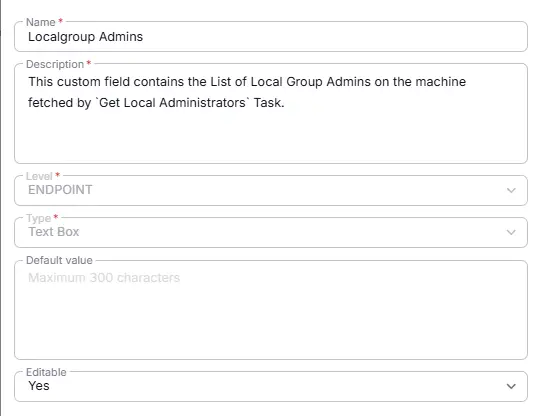
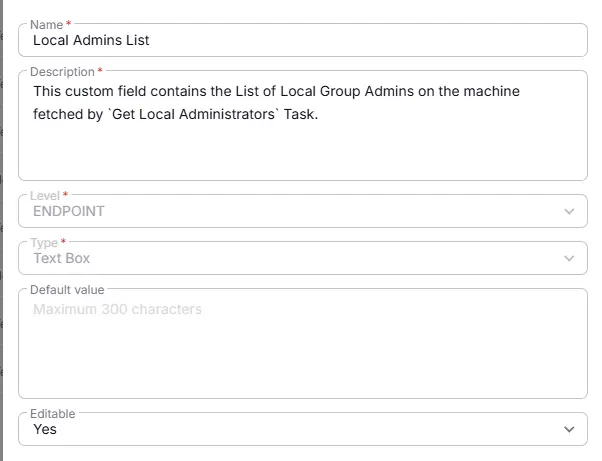
QA Ammendments
- changed solution Name to  `Local Administrator Detection` and updated all the documents referring the solution document
- Renamed  the CF `Localgroup Admins` to `Local Admins List` and updated the associated documents

diff --git a/docs/solutions/local-administrator-detection.md b/docs/solutions/local-administrator-detection.md
@@ -1,8 +1,8 @@
 ---
 id: '7e3f8472-2908-4491-b495-b87bd7ad0fe6'
 slug: /7e3f8472-2908-4491-b495-b87bd7ad0fe6
-title: 'Get Local Administrators'
-title_meta: 'Get Local Administrators'
+title: 'Local Administrator Detection'
+title_meta: 'Local Administrator Detection'
 keywords: ['local','administators','localgroup','admins','windows']
 description: 'The purpose of this solution is to list all the local administrators on windows machines on CW RMM platform.'
 tags: ['security', 'setup', 'windows']
@@ -19,7 +19,7 @@ The purpose of this solution is to list all the local administrators on windows 
 | Content             | Type          | Function          |
 |----------------------------------|-------------------------------|--------------------------------------------------------|
 |  [Get Local Administrators](/docs/11f555cc-79ab-464f-87af-b46c324990ee)    | Script | This Script lists the local administrators on windows machine and stores the result in a custom field. |
-|  [Localgroup Admins  ](/docs/03f2a420-5c70-4078-8b71-dc0fd7f6895d)    | Custom Field | This custom field contains the List of Local Group Admins on the machine fetched by script [Get Local Administrators](/docs/11f555cc-79ab-464f-87af-b46c324990ee)   |
+|  [Local Admins List ](/docs/03f2a420-5c70-4078-8b71-dc0fd7f6895d)    | Custom Field | This custom field contains the List of Local Group Admins on the machine fetched by script [Get Local Administrators](/docs/11f555cc-79ab-464f-87af-b46c324990ee)   |
 |  [Enable Local Admins Detection  ](/docs/219923f8-62e6-401a-9693-678b44325708)    | Custom Field | Select this custom field at organization level to list all Local Administrator on Windows machines. |
 |  [Exclude Local Admin Detection ](/docs/e988aefc-1f5d-4d10-a66b-cf22e084ae72)    | Custom Field | Select this Custom Field to exclude the Site from Local Admin Detection Solution. |
 |  [Exclude Local Admin Detection ](/docs/18aa25e5-61cd-429d-ab09-44b7cf6eb10e)    | Custom Field |Select this Custom Field to exclude an endpoint from Local Admin Detection Solution. |

diff --git a/docs/cwrmm/custom-fields/local-admins-list.md b/docs/cwrmm/custom-fields/local-admins-list.md
@@ -1,8 +1,8 @@
 ---
 id: '03f2a420-5c70-4078-8b71-dc0fd7f6895d'
 slug: /03f2a420-5c70-4078-8b71-dc0fd7f6895d
-title: 'Localgroup Admins'
-title_meta: 'Localgroup Admins'
+title: 'Local Admins List'
+title_meta: 'Local Admins List'
 keywords: ['Local','Administators','Localgroup','Admins','Windows']
 description: 'This custom field contains the List of Local Group Admins on the machine fetched by Get Local Administrators Task.'
 tags: ['security', 'setup', 'windows']
@@ -17,11 +17,11 @@ This custom field contains the List of Local Group Admins on Windows machines fe
 
 | Name                 | Level                | Type                | Default?         | Required | Editable | Description                              |
 |----------------------|----------------------|---------------------|------------------|----------|----------|------------------------------------------|
-| Localgroup Admins    | Endpoint | Text | blank | False | Yes  | This custom field contains the List of Local Group Admins on the machine fetched by Get Local Administrators Task. |
+| Local Admins List   | Endpoint | Text | blank | False | Yes  | This custom field contains the List of Local Group Admins on the machine fetched by Get Local Administrators Task. |
 
 ## Dependencies
 
-- [Solution - Get Local Administrators](/docs/7e3f8472-2908-4491-b495-b87bd7ad0fe6) 
+- [Solution - Local Administrator Detection](/docs/7e3f8472-2908-4491-b495-b87bd7ad0fe6) 
 - [Task - Get Local Administrators](/docs/11f555cc-79ab-464f-87af-b46c324990ee) 
 
 

diff --git a/docs/cwrmm/custom-fields/exclude-local-admin-detection-device.md b/docs/cwrmm/custom-fields/exclude-local-admin-detection-device.md
@@ -17,11 +17,11 @@ Select this Custom Field to exclude an endpoint from Local Admin Detection Solut
 
 | Name                 | Level                | Type                | Default       | Required | Editable | Description                              |
 |----------------------|----------------------|---------------------|------------------|----------|----------|------------------------------------------|
-| Exclude Local Admin Detection | Endpoint | Checkbox | No | False | Yes   | SSelect this Custom Field to exclude an endpoint from Local Admin Detection Solution.|
+| Exclude Local Admin Detection | Endpoint | Checkbox | No | False | Yes   | Select this Custom Field to exclude an endpoint from Local Admin Detection Solution.|
 
 ## Dependencies
 
-- [Solution - Get Local Administrators](/docs/7e3f8472-2908-4491-b495-b87bd7ad0fe6) 
+- [Solution - Local Administrator Detection](/docs/7e3f8472-2908-4491-b495-b87bd7ad0fe6) 
 
 ## Creation Process
 

diff --git a/docs/cwrmm/groups/machines-opted-for-localadmin-detection.md b/docs/cwrmm/groups/machines-opted-for-localadmin-detection.md
@@ -17,7 +17,7 @@ This Group includes Windows machines which are opted for Local Administrator Det
 - [Custom Field - Enable Local Admins Detection  ](/docs/219923f8-62e6-401a-9693-678b44325708) 
 - [Custom Field - Exclude Local Admin Detection ](/docs/e988aefc-1f5d-4d10-a66b-cf22e084ae72)  
 - [Custom Field - Exclude Local Admin Detection ](/docs/18aa25e5-61cd-429d-ab09-44b7cf6eb10e) 
-- [Solution - Get Local Administrators](/docs/7e3f8472-2908-4491-b495-b87bd7ad0fe6) 
+- [Solution - Local Administrator Detection](/docs/7e3f8472-2908-4491-b495-b87bd7ad0fe6)
 
 ## Group Creation
 

diff --git a/docs/cwrmm/tasks/get-local-administrators.md b/docs/cwrmm/tasks/get-local-administrators.md
@@ -20,8 +20,8 @@ This Script lists the local administrators on windows machine and stores the res
 ![Sample Run 2](../../../static/img/docs/11f555cc-79ab-464f-87af-b46c324990ee/image2.webp)
 
 ## Dependencies
-- [Custom Field - Localgroup Admins  ](/docs/03f2a420-5c70-4078-8b71-dc0fd7f6895d) 
-- [Solution - Get Local Administrators](/docs/7e3f8472-2908-4491-b495-b87bd7ad0fe6) 
+- [Custom Field - Local Admins List](/docs/03f2a420-5c70-4078-8b71-dc0fd7f6895d) 
+- [Solution - Local Administrator Detection](/docs/7e3f8472-2908-4491-b495-b87bd7ad0fe6) 
 
 ## Task Creation
 

diff --git a/docs/cwrmm/custom-fields/enable-local-admins-detection.md b/docs/cwrmm/custom-fields/enable-local-admins-detection.md
@@ -21,7 +21,7 @@ Select this custom field to list all Local administrator on windows machines.
 
 ## Dependencies
 
-- [Solution - Get Local Administrators](/docs/7e3f8472-2908-4491-b495-b87bd7ad0fe6) 
+- [Solution - Local Administrator Detection](/docs/7e3f8472-2908-4491-b495-b87bd7ad0fe6) 
 
 ## Custom Field Setup Location
 

diff --git a/docs/cwrmm/custom-fields/exclude-local-admin-detection-site.md b/docs/cwrmm/custom-fields/exclude-local-admin-detection-site.md
@@ -21,7 +21,7 @@ Select this Custom Field to exclude the Site from Local Admin Detection Solution
 
 ## Dependencies
 
-- [Solution - Get Local Administrators](/docs/7e3f8472-2908-4491-b495-b87bd7ad0fe6) 
+- [Solution - Local Administrator Detection](/docs/7e3f8472-2908-4491-b495-b87bd7ad0fe6) 
 
 ## Creation Process
 
